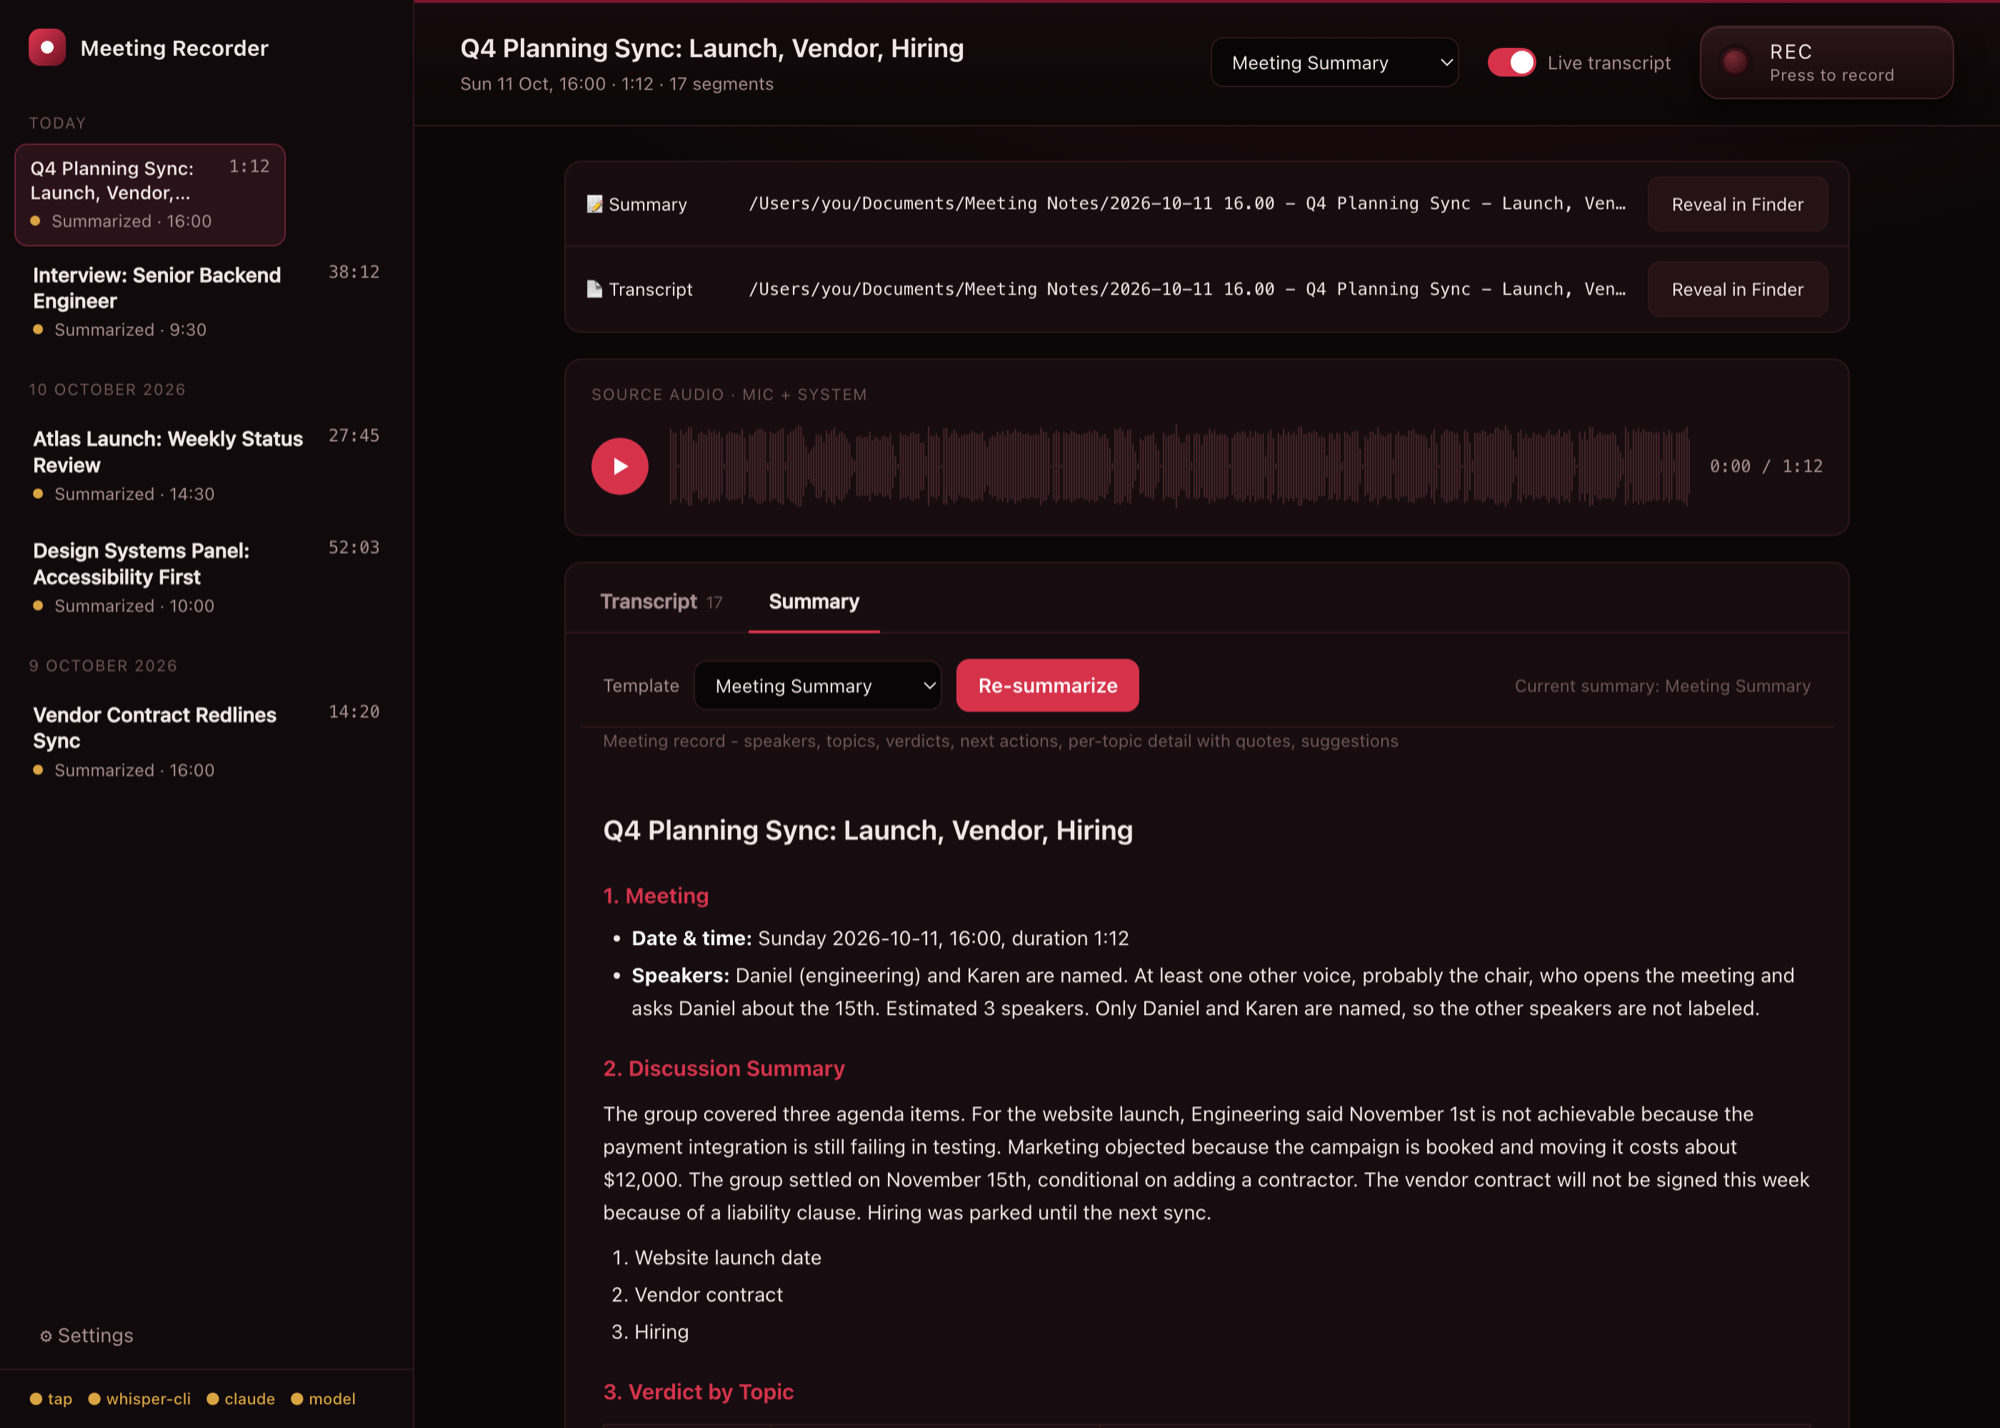
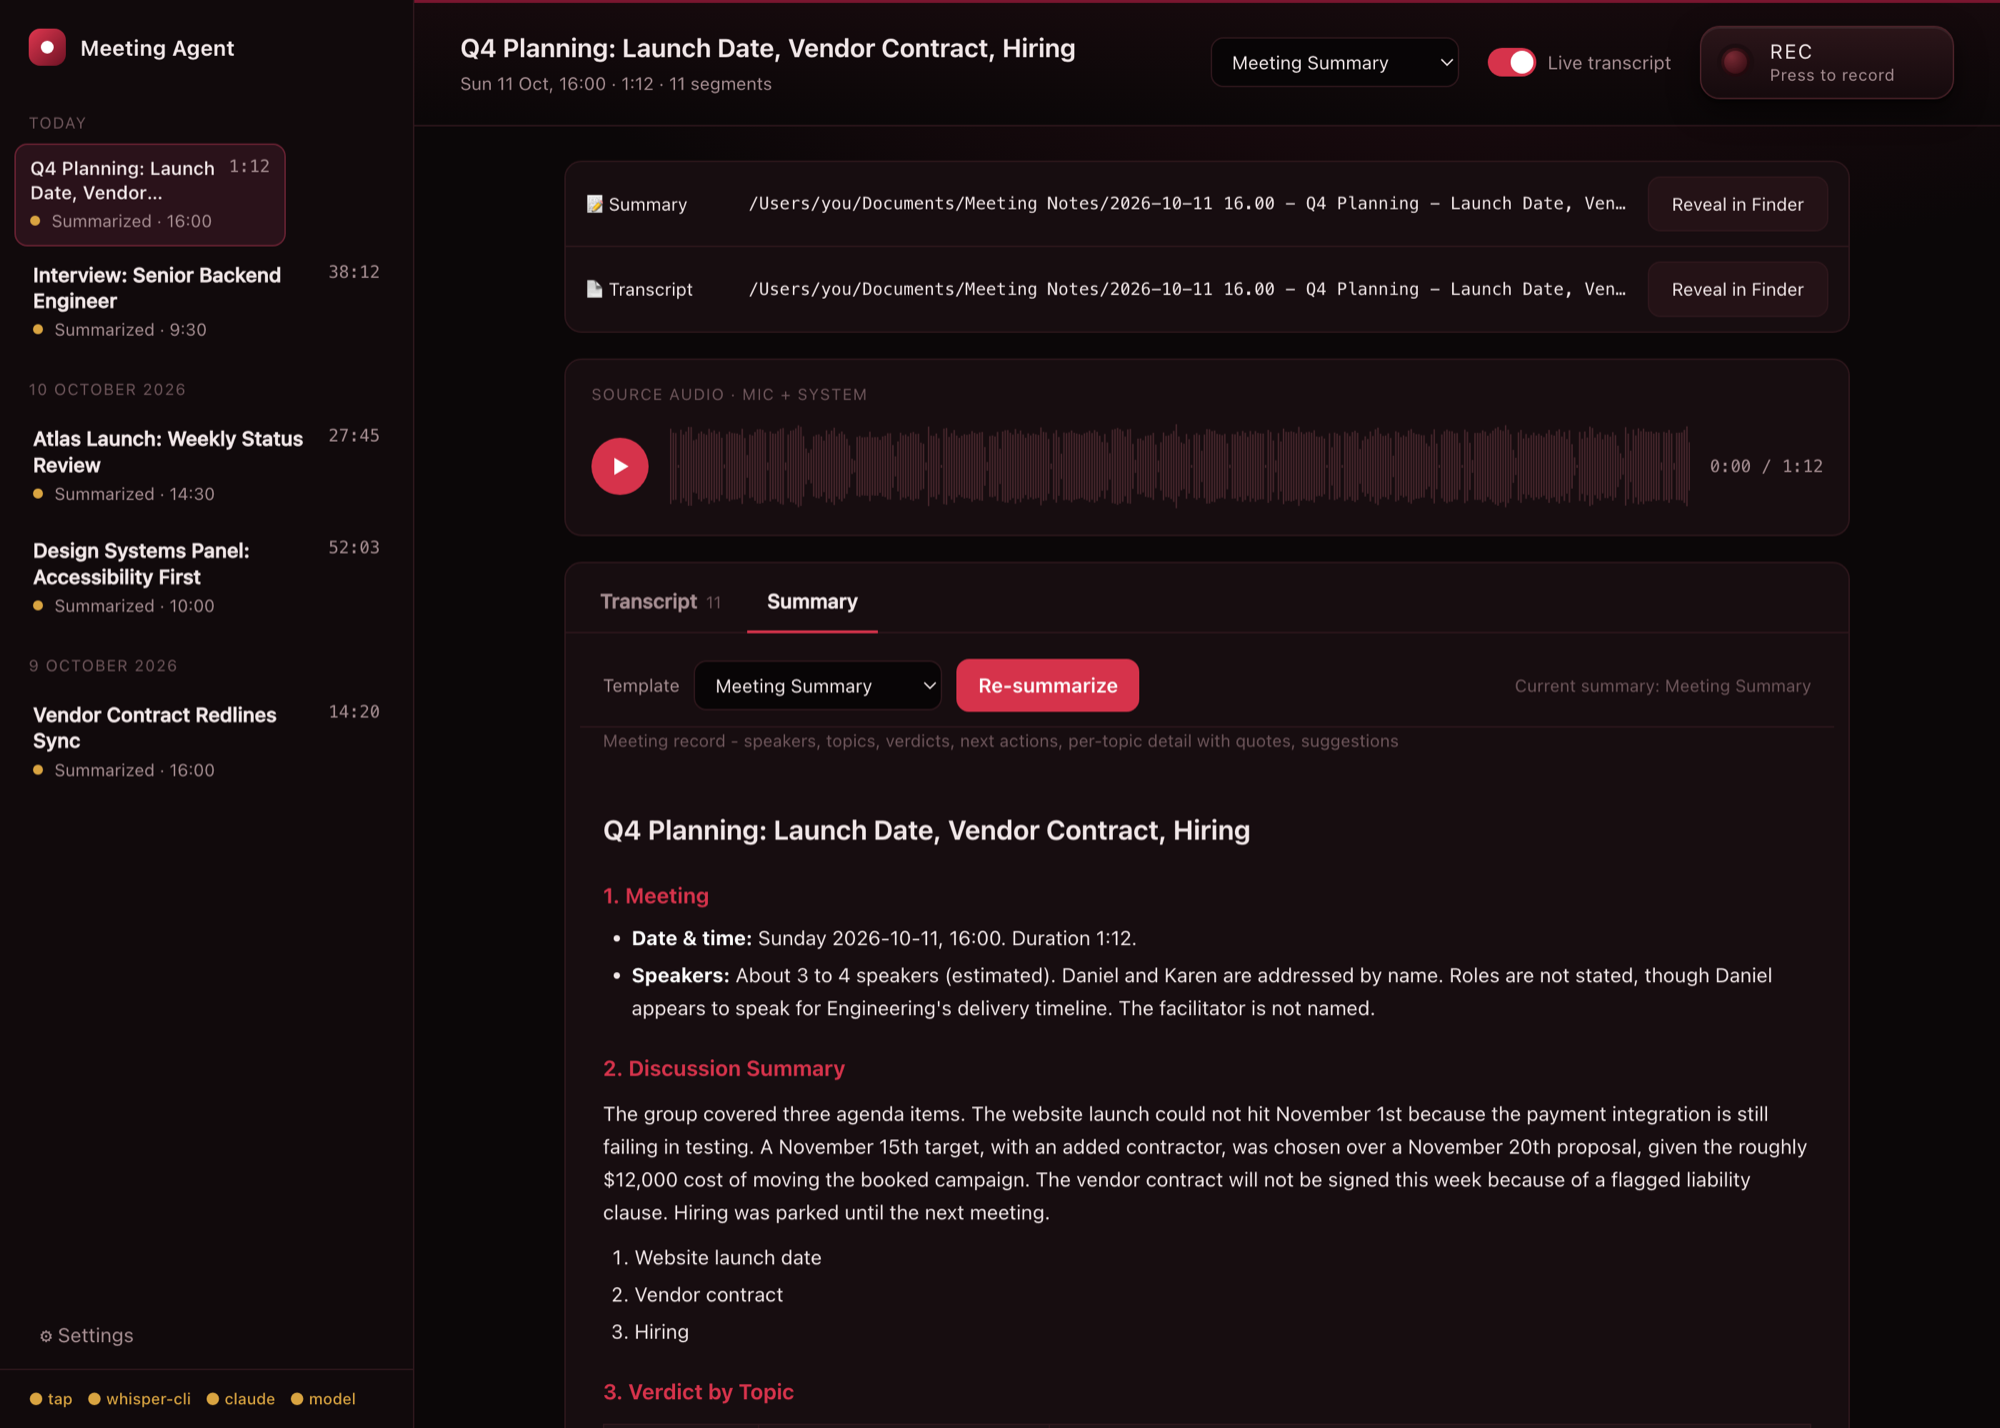
Rename the product to Meeting Agent; refresh screenshots

diff --git a/index.html b/index.html
@@ -1,6 +1,6 @@
 <!DOCTYPE html>
 <html lang="en"><head><meta charset="UTF-8"><meta name="viewport" content="width=device-width,initial-scale=1">
-<title>Meeting Recorder</title>
+<title>Meeting Agent</title>
 <style>
 :root{--bg:#0b0708;--side:#110a0c;--card:#170d10;--line:#2e171c;--text:#f1e7e8;--mut:#a68e92;--dim:#6e565b;
 --acc:#d6334b;--acc2:#a8203a;--rec:#ff3b4e;--ok:#d9a441;--warn:#e8873a;--r:12px}
@@ -98,14 +98,14 @@ canvas{width:100%;height:64px;display:block;cursor:pointer}
 .hero h2{margin:0;font-size:22px}.hero p{margin:0;color:var(--mut);max-width:420px}
 </style></head><body>
 <aside>
-  <div class="brand" id="home" style="cursor:pointer" title="Home"><div class="logo"><i></i></div>Meeting Recorder</div>
+  <div class="brand" id="home" style="cursor:pointer" title="Home"><div class="logo"><i></i></div>Meeting Agent</div>
   <div id="list"></div>
   <button class="gear" id="gear">⚙ Settings</button>
   <div class="deps" id="deps"></div>
 </aside>
 <main>
   <header>
-    <h1 id="title">Meeting Recorder<span class="sub" id="sub"></span></h1>
+    <h1 id="title">Meeting Agent<span class="sub" id="sub"></span></h1>
     <div class="meter" id="meter" hidden title="Input level (mic + system audio)"><div class="mbar"><i id="mfill"></i><b id="mpeak"></b></div><span class="mtxt" id="mtxt"></span></div>
     <span class="timer" id="timer" hidden></span>
     <select class="sel" id="tpl" title="Summary template for this recording"></select>
@@ -193,7 +193,7 @@ function renderHeader(){
   const go=$('go');go.classList.toggle('on',r);go.setAttribute('aria-pressed',r);go.querySelector('b').textContent=r?'ON AIR':'REC';go.querySelector('small').textContent=r?'Press to stop':'Press to record';document.querySelector('header').classList.toggle('live',r);
   $('livewrap').style.display=r?'none':'';
   $('timer').hidden=!r;$('meter').hidden=!r;if(r)$('timer').textContent=fmt(rec.elapsed);
-  $('title').firstChild.textContent=st.sel?((st.detail&&st.detail.title)||titleOf(st.sel)):'Meeting Recorder';
+  $('title').firstChild.textContent=st.sel?((st.detail&&st.detail.title)||titleOf(st.sel)):'Meeting Agent';
   $('sub').textContent=st.sel&&st.detail?(st.detail.title?titleOf(st.sel)+' · ':'')+(st.detail.duration?fmt(st.detail.duration)+' · ':'')+(st.detail.segments.length+' segments'):'';
 }
 /* ---------- main view ---------- */
@@ -202,7 +202,7 @@ function renderView(){
   const d=st.detail;
   if(!st.sel||!d){
     const key='hero';if(vkey===key)return;vkey=key;
-    $('view').innerHTML=`<div class="hero"><div class="logo" style="width:56px;height:56px;border-radius:16px"><i style="width:18px;height:18px"></i></div><h2>Record a meeting</h2><p>Captures your microphone and the far end of the call, transcribes locally with Whisper, and writes a summary with Claude. No audio leaves your Mac.</p></div>`;return;
+    $('view').innerHTML=`<div class="hero"><div class="logo" style="width:56px;height:56px;border-radius:16px"><i style="width:18px;height:18px"></i></div><h2>Meeting Agent is ready</h2><p>Press REC and I'll take it from here: I capture your microphone and the far end of the call, transcribe on this Mac with Whisper, and write the minutes with Claude. No audio leaves your Mac.</p></div>`;return;
   }
   const key=[d.title,d.transcript_note,d.template,st.templates.length,st.rsTpl,d.note,d.id,d.audio,st.tab,d.segments.length,d.final,!!d.summary,d.recording,d.job&&d.job.state,d.live_error].join('|');
   if(key===vkey)return;vkey=key;

diff --git a/stack.html b/stack.html
@@ -3,7 +3,7 @@
 <head>
 <meta charset="UTF-8">
 <meta name="viewport" content="width=device-width, initial-scale=1">
-<title>meeting-transcribe — the stack</title>
+<title>Meeting Agent — the stack</title>
 <style>
   :root{--bg:#0b0708;--panel:#170d10;--panel2:#1f1216;--line:#2e171c;--text:#f1e7e8;--mut:#a68e92;--dim:#6e565b;
     --acc:#d6334b;--hot:#ff3b4e;--gold:#d9a441;
@@ -49,7 +49,7 @@
 <header class="hero"><div class="wrap">
   <span class="tag"><i></i> Local · macOS · Open source</span>
   <h1>Record the meeting.<br><em>Keep the notes.</em></h1>
-  <p class="lead">A fully local macOS meeting recorder. It captures your mic and the far end of the call, transcribes on-device with whisper.cpp, and writes a structured summary with the <code>claude</code> CLI from templates you control. Audio never leaves your Mac.</p>
+  <p class="lead">Meeting Agent is a fully local macOS note-taker. It captures your mic and the far end of the call, transcribes on-device with whisper.cpp, and writes a structured summary with the <code>claude</code> CLI from templates you control. Audio never leaves your Mac.</p>
   <nav><a href="#flow">Data flow</a><a href="#stack">The stack</a><a href="#build">Build it</a><a href="#templates">Templates</a><a href="#config">Config</a></nav>
 </div></header>
 
@@ -84,7 +84,7 @@
   <h2><small>Build it</small>Three commands</h2>
   <p class="sub">Needs macOS 14.4+, Xcode Command Line Tools, and the <code>claude</code> CLI. Homebrew is optional.</p>
 <pre><span class="c"># clone, then:</span>
-git clone https://github.com/dicksonyue/meeting-transcribe &amp;&amp; cd meeting-transcribe
+git clone https://github.com/dicksonyue/meeting-agent &amp;&amp; cd meeting-agent
 ./setup.sh      <span class="c"># builds the tap, gets whisper-cli, downloads the model</span>
 ./verify.sh     <span class="c"># end-to-end self-check (deps, build, pipeline, API, live capture)</span>
 ./start.sh      <span class="c"># http://127.0.0.1:8765/</span></pre>

diff --git a/tools/coreaudio-tap.swift b/tools/coreaudio-tap.swift
@@ -112,7 +112,7 @@ let micUID = str(mic, kAudioDevicePropertyDeviceUID)
 
 let desc: [String: Any] = [
     kAudioAggregateDeviceNameKey: aggName,
-    kAudioAggregateDeviceUIDKey: "com.meeting-transcribe.\(UUID().uuidString)",
+    kAudioAggregateDeviceUIDKey: "com.meeting-agent.\(UUID().uuidString)",
     kAudioAggregateDeviceMainSubDeviceKey: micUID,
     kAudioAggregateDeviceIsPrivateKey: true,
     kAudioAggregateDeviceIsStackedKey: false,

diff --git a/server.py b/server.py
@@ -1,5 +1,5 @@
 #!/usr/bin/env python3
-"""meeting-transcribe: record (Core Audio tap) -> transcribe (whisper.cpp) -> summarize (claude).
+"""meeting-agent: record (Core Audio tap) -> transcribe (whisper.cpp) -> summarize (claude).
 Python 3.9+ stdlib only."""
 import array, glob, json, os, re, queue, shutil, signal, subprocess, tempfile, threading, time, wave
 from datetime import datetime
@@ -638,7 +638,7 @@ def recover_orphans():
 if __name__ == "__main__":
     os.makedirs(SAVE_DIR, exist_ok=True)
     recover_orphans()
-    print("meeting-transcribe on http://127.0.0.1:%d/ (save: %s)" % (PORT, SAVE_DIR), flush=True)
+    print("meeting-agent on http://127.0.0.1:%d/ (save: %s)" % (PORT, SAVE_DIR), flush=True)
     try:
         ThreadingHTTPServer(("127.0.0.1", PORT), H).serve_forever()
     finally:

diff --git a/STACK.md b/STACK.md
@@ -1,6 +1,6 @@
-# meeting-transcribe — Stack & Build
+# Meeting Agent — Stack & Build
 
-A fully **local** macOS meeting recorder → transcriber → summarizer. It captures your
+A fully **local** macOS meeting agent: recorder → transcriber → summarizer. It captures your
 **mic + the meeting far-end** (Zoom / Teams / browser), transcribes with **whisper.cpp**,
 and summarizes with the **`claude` CLI** using a template you choose. **No audio leaves the machine.**
 Only the transcript text is sent to Claude, for the summary.
@@ -57,7 +57,7 @@ are rewritten and renamed if the title changed. Earlier summaries are kept in `t
 ## Build from scratch
 
 ```bash
-git clone https://github.com/dicksonyue/meeting-transcribe && cd meeting-transcribe
+git clone https://github.com/dicksonyue/meeting-agent && cd meeting-agent
 ./setup.sh      # builds the tap, gets whisper-cli (brew if present, else builds whisper.cpp into bin/), downloads the model
 ./verify.sh     # checks deps, Swift build, full pipeline on synthetic speech, server API, live capture
 ./start.sh      # starts the server and opens http://127.0.0.1:8765/
@@ -145,16 +145,16 @@ coreaudio-tap --cleanup [Name]                            # destroy stale "Meeti
 
 ## Autostart with launchd (optional)
 
-`~/Library/LaunchAgents/com.you.meeting-transcribe.plist`:
+`~/Library/LaunchAgents/com.you.meeting-agent.plist`:
 
 ```xml
 <?xml version="1.0" encoding="UTF-8"?>
 <!DOCTYPE plist PUBLIC "-//Apple//DTD PLIST 1.0//EN" "http://www.apple.com/DTDs/PropertyList-1.0.dtd">
 <plist version="1.0"><dict>
-  <key>Label</key><string>com.you.meeting-transcribe</string>
+  <key>Label</key><string>com.you.meeting-agent</string>
   <key>ProgramArguments</key>
-  <array><string>/usr/bin/python3</string><string>/Users/YOU/meeting-transcribe/server.py</string></array>
-  <key>WorkingDirectory</key><string>/Users/YOU/meeting-transcribe</string>
+  <array><string>/usr/bin/python3</string><string>/Users/YOU/meeting-agent/server.py</string></array>
+  <key>WorkingDirectory</key><string>/Users/YOU/meeting-agent</string>
   <key>EnvironmentVariables</key><dict>
     <key>MT_PORT</key><string>8765</string>
     <key>PATH</key><string>/Users/YOU/.local/bin:/opt/homebrew/bin:/usr/bin:/bin</string>

diff --git a/README.md b/README.md
@@ -1,6 +1,8 @@
-# meeting-transcribe
+# Meeting Agent
 
-A local macOS meeting recorder. It captures your **microphone and the other side of the call**
+*Your private AI note-taker. It joins every meeting on your Mac, keeps the minutes, and never sends your audio anywhere.*
+
+Meeting Agent is a local macOS app. It captures your **microphone and the other side of the call**
 (Zoom, Teams, browser), transcribes on-device with **whisper.cpp**, and writes a structured summary with
 the **`claude` CLI**, using templates you can edit.
 
@@ -32,7 +34,7 @@ All data below is synthetic (a scripted `say` voice recording and invented meeti
 Requires macOS 14.4+, Xcode Command Line Tools, and the [`claude` CLI](https://claude.com/claude-code).
 
 ```bash
-git clone https://github.com/dicksonyue/meeting-transcribe && cd meeting-transcribe
+git clone https://github.com/dicksonyue/meeting-agent && cd meeting-agent
 ./setup.sh     # builds the tap, gets whisper-cli, downloads the ~570 MB model
 ./verify.sh    # optional: end-to-end self-check
 ./start.sh     # opens http://127.0.0.1:8765/

diff --git a/CLAUDE.md b/CLAUDE.md
@@ -4,7 +4,7 @@ This file provides guidance to Claude Code (claude.ai/code) when working with co
 
 ## What this is
 
-A fully local macOS meeting recorder → transcriber → summarizer. A Swift Core Audio Process Tap captures mic + system output, whisper.cpp transcribes locally, and the `claude` CLI writes the summary from a template. Only transcript text goes to Claude.
+Meeting Agent is a fully local macOS meeting recorder → transcriber → summarizer. A Swift Core Audio Process Tap captures mic + system output, whisper.cpp transcribes locally, and the `claude` CLI writes the summary from a template. Only transcript text goes to Claude.
 
 ## Commands
 
